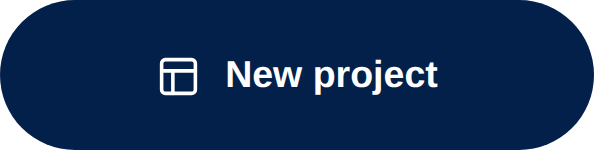
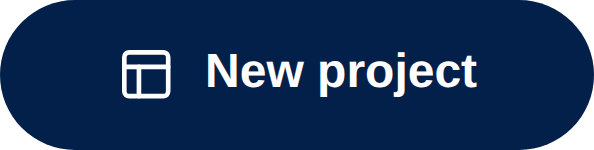
Raise the action-button type from 25% to 32% of the pill height
The row- set had 12.5px type on a 50px canvas, which left the short
labels sitting in ~32px of empty white at each end and read as tiny
once the buttons were placed at ~208px wide.

16px is the largest size that still leaves the longest label
(Sign up to present) proper side padding on the same 3.96:1 canvas,
so the files keep their names, their ratio and their placement --
only the type and icons grow.

Claude-Session: https://claude.ai/code/session_01YAQcUYpy57Up3cir28mVUA

Changed region(s): [[0.1818, 0.32, 0.8182, 0.6667]]

diff --git a/design/gen_snug.py b/design/gen_snug.py
@@ -13,17 +13,21 @@ LABELS = [("time-off","ft-form","Time off"), ("it-issue","tool","IT issue"),
           ("new-project","templates","New project"), ("expense","ft-sheet","Expense"),
           ("signup-present","calendar","Sign up to present")]
 W, H = 198, 50          # 3.96:1 -- the natural ratio of the longest label
+FS   = 16               # type is 32% of the pill height; 12.5 left the short
+                        # labels marooned in ~32px of dead white at each end.
+                        # 16 brings that down to ~14px and is the largest that
+                        # still leaves "Sign up to present" breathing room.
 CSS = """
 <link href="https://fonts.googleapis.com/css2?family=Montserrat:wght@600&display=swap" rel="stylesheet">
 <style>
  html,body{margin:0;padding:0;background:transparent}
  .wrap{display:inline-block;padding:6px}
  .pill{--ui:'Montserrat',-apple-system,'Segoe UI',Roboto,Arial,sans-serif;
-  box-sizing:border-box;display:flex;align-items:center;justify-content:center;gap:8px;
-  border-radius:999px;white-space:nowrap;font:600 12.5px var(--ui);font-family:var(--ui)}
+  box-sizing:border-box;display:flex;align-items:center;justify-content:center;gap:9.9px;
+  border-radius:999px;white-space:nowrap;font:600 16px var(--ui);font-family:var(--ui)}
  .pill.white{background:#fff;color:#022049;border:1.5px solid #D5DCE4}
  .pill.navy{background:#022049;color:#fff}
- .pill svg{width:15px;height:15px;fill:none;stroke-width:1.9;
+ .pill svg{width:19.5px;height:19.5px;fill:none;stroke-width:1.9;
    stroke-linecap:round;stroke-linejoin:round;flex:none}
  .pill.white svg{stroke:#022049}
  .pill.navy svg{stroke:#fff}
